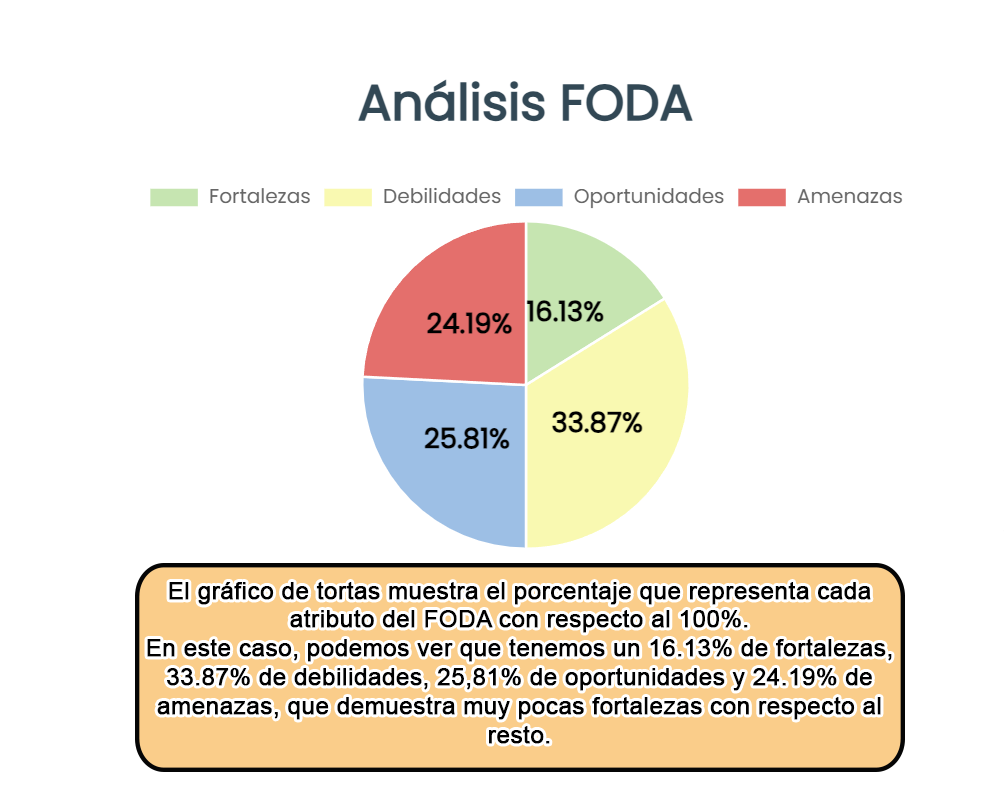
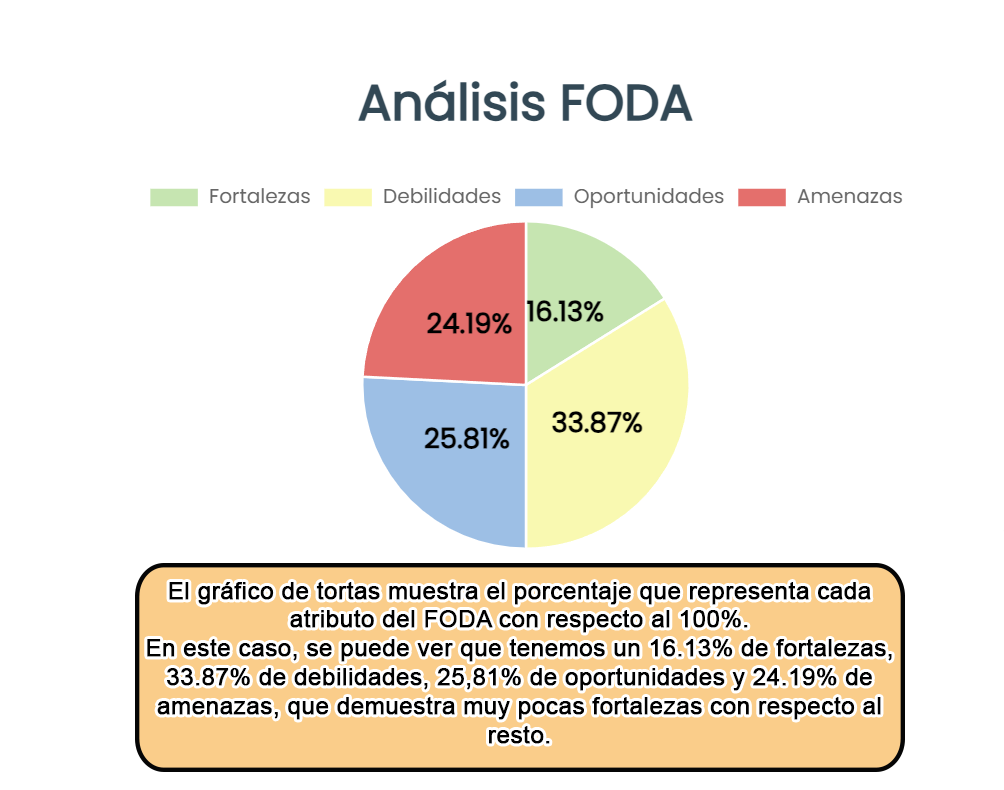
correccion gramatica + tutorial descargas

diff --git a/src/components/Gallery.vue b/src/components/Gallery.vue
@@ -55,6 +55,11 @@
             cover: "radar.jpg",
             images: ["r1.png", "r2.png", "r3.png", "r4.png", "r5.png"]
           },
+          {
+            title: "Guardar FODA ",
+            cover: "down.jpg",
+            images: ["p1.png", "p2.png", "p3.png", "p4.png", "p5.png"]
+          },
         ],
         selectedAlbum: null,
         currentImageIndex: 0
@@ -129,8 +134,8 @@
     border-radius: 10px;
     position: relative;
     vertical-align: top;
-    width: 700px;
-    height: 570px;
+    width: 900px;
+    height: 750px;
   }
   
   .slideshow-button {
